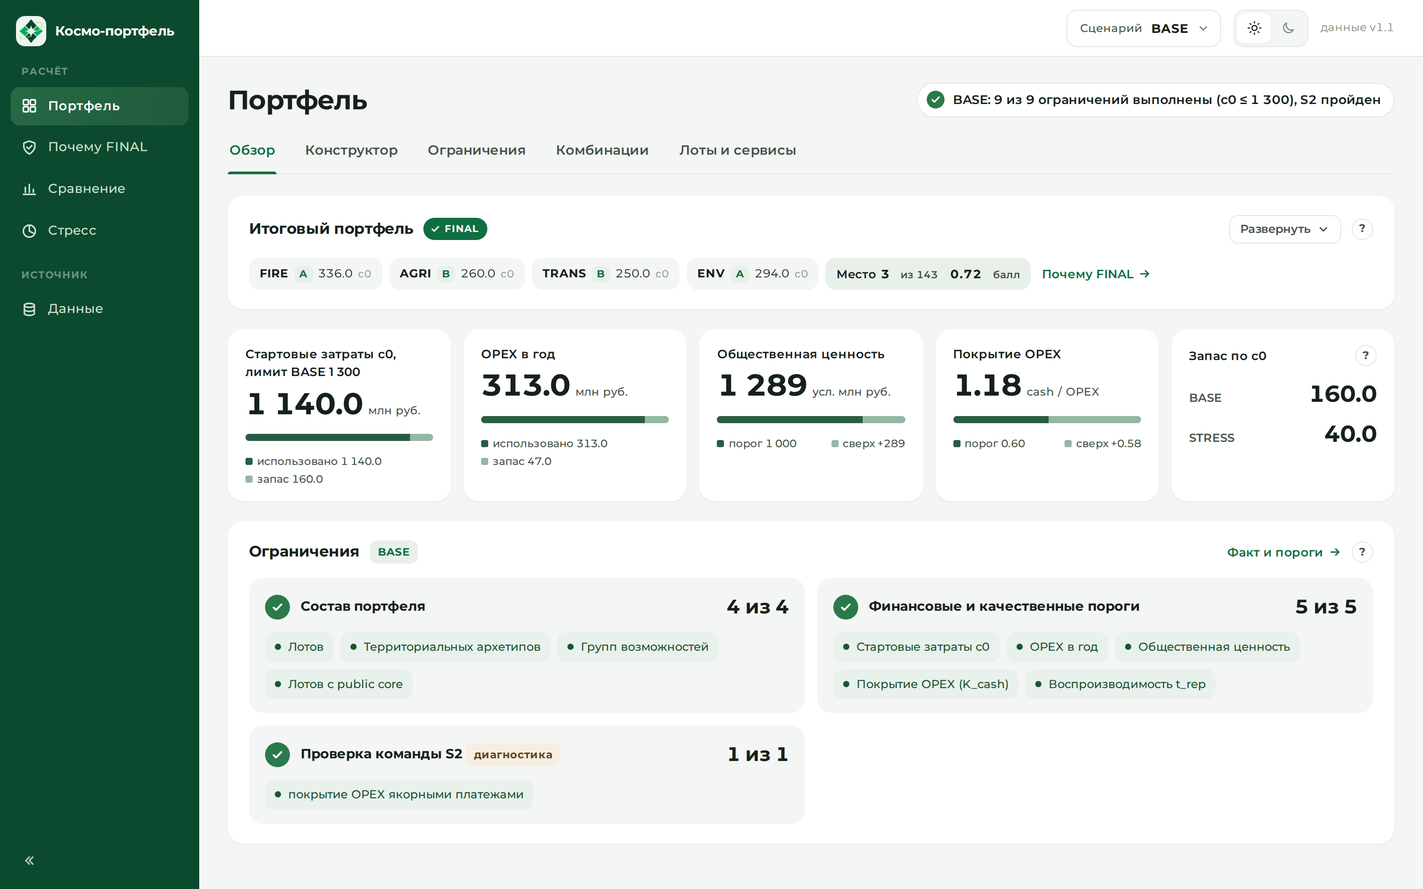
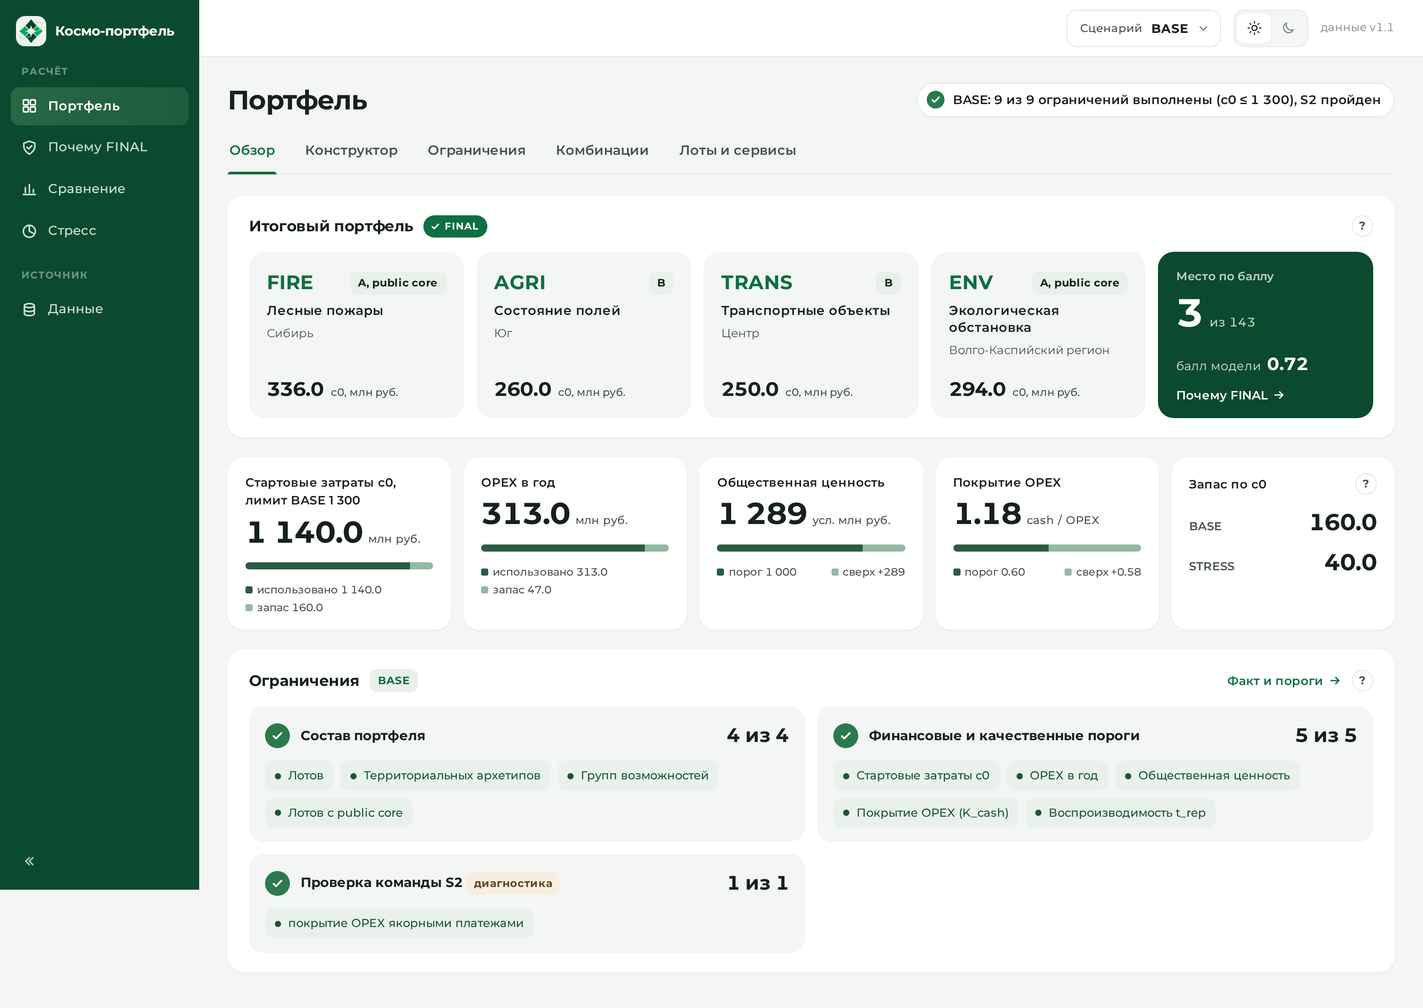
Fold each service card instead of the portfolio blocks
Свёрнуты были не те блоки. «Итоговый портфель» на обзоре и таблица «Лоты
портфеля» возвращены в прежний вид — снимки этих экранов побайтно совпадают
с версией до складывания.

Складывается то, что просили: каждая карточка в «Сервисах портфеля» по
отдельности. Свёрнутая показывает лот, режим, регион и пользователя, кнопка
«Подробнее» раскрывает проблему, описание, правила доступа, KPI, эффект,
плательщика, риск и поведение при сбое. Соседние карточки не трогаются:
у сетки align-items:start, поэтому раскрытая растёт одна, а не вытягивает
пустотой весь ряд. Состояние каждой карточки живёт между сессиями в одном
ключе, разворот анимирован, при prefers-reduced-motion анимации нет.

Снимок portfolio-open.png удалён, portfolio-lots-open.png теперь показывает
раскрытые карточки сервисов. Тесты: 390.

Claude-Session: https://claude.ai/code/session_01KH6fEFye5MQCjx5tVeXQtT

diff --git a/app/static/app.js b/app/static/app.js
@@ -77,7 +77,7 @@ const tag = (t, cls = '') => `<span class="tag${cls ? ' ' + cls : ''}">${esc(t)}
 const finBadge = () => `<span class="fin">${ICON.tick}FINAL</span>`;
 const isFinalId = (id) => id === state.data?.final;
 const foldOpen = (name) => !!state.fold[name];
-const foldT = (name, what) => `<span class="fold-t" role="button" tabindex="0" data-fold="${name}" aria-expanded="${foldOpen(name)}" aria-controls="fold-${name}" aria-label="${foldOpen(name) ? 'Свернуть' : 'Развернуть'}: ${esc(what)}">${foldOpen(name) ? 'Свернуть' : 'Развернуть'} ${ICON.chev}</span>`;
+const foldT = (name, what, open = 'Свернуть', closed = 'Развернуть') => `<span class="fold-t" role="button" tabindex="0" data-fold="${name}" data-open="${esc(open)}" data-closed="${esc(closed)}" aria-expanded="${foldOpen(name)}" aria-controls="fold-${name}" aria-label="${foldOpen(name) ? esc(open) : esc(closed)}: ${esc(what)}">${foldOpen(name) ? esc(open) : esc(closed)} ${ICON.chev}</span>`;
 const more = (tab, label, page = null) => `<a class="more" role="link" tabindex="0" data-tab="${tab}"${page ? ` data-page="${page}"` : ''}>${label} ${ICON.arrow}</a>`;
 
 // localStorage может быть недоступен (приватный режим, запрет cookies) — интерфейс работает и без памяти между сессиями
@@ -101,8 +101,8 @@ const state = {
   theme: document.documentElement.dataset.theme || 'light',
   dataset: null,
   gatesFilter: store.get('kp.gates') === '1',   // проверки команды S2 как фильтр ранжирования (только для исследования)
-  // складные блоки: карточки лотов на обзоре и таблица показателей; по умолчанию свёрнуты
-  fold: { hero: store.get('kp.fold.hero') === '1', lots: store.get('kp.fold.lots') === '1' },
+  // складные карточки сервисов: ключ на лот, по умолчанию все свёрнуты
+  fold: Object.fromEntries((store.get('kp.fold') || '').split(',').filter(Boolean).map((k) => [k, true])),
 };
 const curTab = (page = state.page) => state.tab[page] || TABS[page][0][0];
 function parseHash() {
@@ -250,13 +250,7 @@ ${tile('Покрытие OPEX', fmt(m.kcash, 2), 'cash / OPEX', Math.min(1, cons
         const all = gatesBad.length === 0;
         return `<div class="sum-it"><div class="sum-h"><span class="circ${all ? '' : ' bad'}">${all ? ICON.check : ICON.x}</span><span class="t">Проверка команды S2 <span class="tag warn">диагностика</span></span><span class="n">${gates.length - gatesBad.length} из ${gates.length}</span></div><div class="sum-l">${gates.map((g) => `<span class="${g.ok ? '' : 'bad'}"><i></i>${esc(gateName(g))}${g.ok ? '' : ', ' + esc(gateFailText(g))}</span>`).join('')}</div></div>`;
       };
-      // Пять крупных карточек занимали половину первого экрана: по умолчанию они свёрнуты
-      // до строки «лот · режим · c0» с местом по баллу, разворачиваются кнопкой.
-      const heroSum = `<div class="fold-sum">${s.per_lot.map((r) => `<span class="fl"><b>${esc(r.lot)}</b><i>${esc(r.mode)}</i>${fmt(r.c0)}<small>c0</small></span>`).join('')}
-<span class="fl tt">Место<b>${s.rank ?? '—'}</b><em>из ${t.ranked}</em><b>${s.score.toFixed(2)}</b><em>балл</em></span>${more('decision', 'Почему FINAL', 'why')}</div>`;
-      return `<div class="card fold${foldOpen('hero') ? ' open' : ''}"><h2>${isFinal() ? 'Итоговый портфель' : 'Показанный портфель'} ${portfolioTag()}${foldT('hero', 'карточки лотов')}${help(helpHero)}</h2>
-${heroSum}
-<div class="fold-b" id="fold-hero"><div class="fold-in"><div class="hero">${lotCards}${score}</div></div></div></div>
+      return `<div class="card"><h2>${isFinal() ? 'Итоговый портфель' : 'Показанный портфель'} ${portfolioTag()}${help(helpHero)}</h2><div class="hero">${lotCards}${score}</div></div>
 ${tiles}
 <div class="card"><h2>Ограничения ${tag(sc)}${more('checks', 'Факт и пороги')}${help(helpChecks)}</h2><div class="sum">${grp('Состав портфеля', COMPOSITION)}${grp('Финансовые и качественные пороги', THRESHOLDS)}${grpGates()}</div></div>`;
     },
@@ -341,14 +335,19 @@ ${bad.length ? `<ul class="res-f">${bad.map((r) => `<li>${esc(failText(r))}</li>
       const modesTxt = Object.entries(d.modes).map(([k, v]) => `<b>Режим ${k}:</b> k_c0 ${v.k_c0}, k_opex ${v.k_opex}, ценность ×${v.k_vpub}, якорные ×${v.k_anchor}, коммерческие ×${v.k_commercial}${v.public_core ? ', public core' : ''}`).join('. ');
       const helpLots = `c0, OPEX и cash — млн руб.; ценность — усл. млн руб./год; готовность, устойчивость и тираж — индексы 1–5 из данных кейса. Значения после применения режима: c0 и OPEX умножены на k_c0 и k_opex, ценность — на k_vpub, поступления = якорные × k_anchor + коммерческие × k_commercial. ${modesTxt}. t_rep — показатель воспроизводимости лота (коэффициент масштабируемости решения). В строке «Портфель» — суммы; для t_rep и индексов — средние.`;
       // карточки сервисов: название для интерфейса и тексты из app/config/lots_ui.csv (файл участника записки)
+      // Карточка сервиса складывается отдельно от соседей: свёрнутая показывает лот,
+      // режим, регион и пользователя, остальное открывается кнопкой «Подробнее».
       const svcCard = (r) => {
-        const L = d.lots[r.lot], c = L.card;
+        const L = d.lots[r.lot], c = L.card, key = `sv-${r.lot}`;
         const head = `<div class="sv-h"><div class="name"><span class="code">${esc(r.lot)}</span>, ${esc(L.name)}</div><span class="mode">${esc(r.mode)}${r.public_core ? ', public core' : ''}</span></div>`;
         if (!c) return `<div class="sv">${head}<div class="sv-r">${esc(L.region)}</div><p class="muted">Карточка сервиса не подготовлена</p></div>`;
         const sameMode = !c.mode || c.mode === r.mode;
         const row = (k, v) => (v ? `<dt>${k}</dt><dd>${esc(v)}</dd>` : '');
         const access = sameMode ? row('Базовый доступ', c.access_base) + row('Дополнительно', c.access_extra) : `<dt>Доступ</dt><dd class="muted">описан для режима ${esc(c.mode)}, в комбинации — ${r.mode}</dd>`;
-        return `<div class="sv">${head}<div class="sv-r">${esc(L.region)}${c.user ? ', ' + esc(c.user) : ''}</div>${c.problem ? `<div class="sv-p"><b>Проблема:</b> ${esc(c.problem)}</div>` : ''}<p>${esc(c.description)}</p><dl>${access}${row('KPI', c.kpi)}${row('Эффект', c.effect)}${c.payer ? `<dt>Плательщик</dt><dd>${esc(c.payer)} <span class="hyp">предположение</span></dd>` : ''}${row('Ключевой риск', c.risk)}${row('При сбое', c.on_failure)}</dl></div>`;
+        const body = `${c.problem ? `<div class="sv-p"><b>Проблема:</b> ${esc(c.problem)}</div>` : ''}<p>${esc(c.description)}</p><dl>${access}${row('KPI', c.kpi)}${row('Эффект', c.effect)}${c.payer ? `<dt>Плательщик</dt><dd>${esc(c.payer)} <span class="hyp">предположение</span></dd>` : ''}${row('Ключевой риск', c.risk)}${row('При сбое', c.on_failure)}</dl>`;
+        return `<div class="sv fold${foldOpen(key) ? ' open' : ''}">${head}<div class="sv-r">${esc(L.region)}${c.user ? ', ' + esc(c.user) : ''}</div>
+<div class="fold-b" id="fold-${key}"><div class="fold-in"><div class="sv-body">${body}</div></div></div>
+${foldT(key, `карточка сервиса ${r.lot}`, 'Свернуть', 'Подробнее')}</div>`;
       };
       const helpSvc = `Что получает пользователь каждого лота: проблема, короткое описание, основной пользователь, базовый и дополнительный доступ, главный KPI, общественный эффект (что меняется в решениях пользователя; ущерб отдельно не заявляется), предполагаемый плательщик, ключевой риск, что показать при сбое. Плательщики — гипотезы команды, а не подтверждённые назначения. Правила доступа описаны для режима из карточки; если в комбинации режим другой, строки доступа не показываются.`;
       // тиражирование (П8): что переносится между регионами без изменений и что настраивается на месте —
@@ -361,16 +360,10 @@ ${bad.length ? `<ul class="res-f">${bad.map((r) => `<li>${esc(failText(r))}</li>
       };
       const rep = `<div class="card"><h2>Тиражирование: ядро и адаптация${help(helpRep)}</h2>
 <div class="tw"><table class="rep"><tr><th>Лот</th><th>Переносится без изменений</th><th>Настраивается в регионе</th></tr>${s.per_lot.map(repRow).join('')}</table></div></div>`;
-      // Таблица из десяти столбцов занимала весь экран: по умолчанию свёрнута до строки
-      // «лот · режим · c0» и итога, разворачивается по кнопке (класс на карточке, без перерисовки).
-      const sumLots = `<div class="fold-sum">${s.per_lot.map((r) => `<span class="fl"><b>${esc(r.lot)}</b><i>${esc(r.mode)}</i>${fmt(r.c0)}<small>c0</small></span>`).join('')}
-<span class="fl tt">Портфель${[['c0', fmt(m.c0)], ['OPEX', fmt(m.opex, 2)], ['ценность', fmt(m.vpub)], ['cash', fmt(m.cash, 2)]].map(([k, v]) => `<em>${k}</em><b>${v}</b>`).join('')}</span></div>`;
-      return `<div class="card fold${foldOpen('lots') ? ' open' : ''}"><h2>Лоты портфеля ${portfolioTag()}${foldT('lots', 'таблица всех показателей')}${help(helpLots)}</h2>
-${sumLots}
-<div class="fold-b" id="fold-lots"><div class="fold-in">
+      return `<div class="card"><h2>Лоты портфеля ${portfolioTag()}${help(helpLots)}</h2>
 <div class="tw wide"><table><tr><th>Лот</th><th>Режим</th><th class="num">c0</th><th class="num">OPEX</th><th class="num">Ценность</th><th class="num">Cash</th><th class="num">t_rep</th><th class="num">Готовность</th><th class="num">Устойчивость</th><th class="num">Тираж</th></tr>
 ${s.per_lot.map(lotRow).join('')}
-<tr class="total"><td>Портфель</td><td></td><td class="num">${fmt(m.c0)}</td><td class="num">${fmt(m.opex, 2)}</td><td class="num">${fmt(m.vpub)}</td><td class="num">${fmt(m.cash, 2)}</td><td class="num">${fmt(m.t_rep, 3)}</td><td class="num">${fmt(m.readiness, 2)}</td><td class="num">${fmt(m.resilience, 2)}</td><td class="num">${fmt(m.scale, 2)}</td></tr></table></div></div></div></div>
+<tr class="total"><td>Портфель</td><td></td><td class="num">${fmt(m.c0)}</td><td class="num">${fmt(m.opex, 2)}</td><td class="num">${fmt(m.vpub)}</td><td class="num">${fmt(m.cash, 2)}</td><td class="num">${fmt(m.t_rep, 3)}</td><td class="num">${fmt(m.readiness, 2)}</td><td class="num">${fmt(m.resilience, 2)}</td><td class="num">${fmt(m.scale, 2)}</td></tr></table></div></div>
 <div class="card"><h2>Сервисы портфеля${help(helpSvc)}</h2><div class="svc">${s.per_lot.map(svcCard).join('')}</div></div>${rep}`;
     },
   };
@@ -862,9 +855,10 @@ document.addEventListener('click', async (e) => {
     const name = fold.dataset.fold, card = fold.closest('.fold'), open = !card.classList.contains('open');
     card.classList.toggle('open', open);
     fold.setAttribute('aria-expanded', String(open));
-    fold.setAttribute('aria-label', `${open ? 'Свернуть' : 'Развернуть'}: ${fold.getAttribute('aria-label').split(': ').slice(1).join(': ')}`);
-    fold.firstChild.textContent = open ? 'Свернуть ' : 'Развернуть ';
-    state.fold[name] = open; store.set(`kp.fold.${name}`, open ? '1' : '0');
+    fold.setAttribute('aria-label', `${open ? fold.dataset.open : fold.dataset.closed}: ${fold.getAttribute('aria-label').split(': ').slice(1).join(': ')}`);
+    fold.firstChild.textContent = `${open ? fold.dataset.open : fold.dataset.closed} `;
+    state.fold[name] = open;
+    store.set('kp.fold', Object.keys(state.fold).filter((k) => state.fold[k]).join(','));
     return;
   }
   if (e.target.closest('#collapse')) { state.collapsed = !state.collapsed; store.set('kp.collapsed', state.collapsed ? '1' : '0'); $('#shell').classList.toggle('collapsed', state.collapsed); return; }

diff --git a/app/static/styles.css b/app/static/styles.css
@@ -256,7 +256,8 @@ tr.hl .lot{background:var(--hl-chip)}
 .cell.ok{background:var(--good-soft);color:var(--good-ink)}.cell.thin{background:var(--warn-soft);color:var(--warn-ink)}.cell.bad{background:var(--crit-soft);color:var(--crit-ink)}
 
 /* ---- карточки сервисов (тексты из config/lots_ui.csv) ---- */
-.svc{display:grid;grid-template-columns:repeat(4,minmax(0,1fr));gap:14px}
+/* align-items:start — раскрытая карточка растёт одна, соседние не вытягиваются пустотой */
+.svc{display:grid;grid-template-columns:repeat(4,minmax(0,1fr));gap:14px;align-items:start}
 .sv{display:flex;flex-direction:column;gap:9px;padding:16px 18px 18px;background:var(--bg);border-radius:16px;min-width:0}
 .sv-h{display:flex;align-items:flex-start;justify-content:space-between;gap:8px}
 .sv-h .name{font-weight:600;min-width:0;line-height:1.35;font-size:14.5px}
@@ -365,29 +366,18 @@ table.bs b.neg{color:var(--crit)}
 .ws .lots{margin-top:4px}
 table.alts td .sub{max-width:520px}
 .alt-h{display:flex;align-items:center;gap:4px;flex-wrap:wrap}
-/* складная карточка: компактная строка вместо большой таблицы, разворот по кнопке */
-/* кнопка разворота: видимый элемент управления, а не ссылка — иначе её не находят глазами */
-.card.fold h2 .fold-t{margin-left:auto;display:inline-flex;align-items:center;gap:7px;height:32px;padding:0 12px;border:1px solid var(--rule);border-radius:10px;background:var(--surface);color:var(--ink-2);font-family:var(--f-ui);font-size:13px;font-weight:600;white-space:nowrap;cursor:pointer;user-select:none}
-.card.fold h2 .fold-t:hover{border-color:var(--brand);color:var(--brand);background:var(--brand-soft)}
-.card.fold h2 .fold-t+.help{margin-left:0}
-.card.fold h2 .fold-t svg{width:14px;height:14px;transition:transform .2s ease}
-.card.fold.open h2 .fold-t svg{transform:rotate(180deg)}
-.fold-sum{display:flex;flex-wrap:wrap;gap:8px;align-items:center}
-.card.fold.open .fold-sum{display:none}
-.fl{display:inline-flex;align-items:baseline;gap:6px;padding:8px 12px;border-radius:12px;background:var(--bg);font-size:13px;font-variant-numeric:tabular-nums}
-.fl b{font-family:var(--f-code);letter-spacing:var(--code-tracking);font-weight:700;font-size:13px;color:var(--ink)}
-.fl i{font-style:normal;font-weight:700;font-size:11.5px;padding:1px 6px;border-radius:6px;background:var(--brand-soft);color:var(--brand)}
-.fl small{font-size:11.5px;color:var(--muted)}
-.fl.tt{background:var(--brand-soft);font-weight:600;color:var(--ink)}
-.fl.tt em{font-style:normal;font-size:11.5px;color:var(--ink-2);margin-left:6px}
-.fl.tt em+b{margin-left:8px}
-.fold-sum .more{margin-left:4px}
-.fl.tt b{font-family:var(--f-num);font-size:13.5px}
+/* складная карточка сервиса: свёрнутая показывает лот, режим, регион и пользователя */
+.fold-t{display:inline-flex;align-items:center;justify-content:center;gap:7px;height:32px;padding:0 12px;border:1px solid var(--rule);border-radius:10px;background:var(--surface);color:var(--ink-2);font-family:var(--f-ui);font-size:13px;font-weight:600;white-space:nowrap;cursor:pointer;user-select:none}
+.fold-t:hover{border-color:var(--brand);color:var(--brand);background:var(--brand-soft)}
+.fold-t svg{width:14px;height:14px;transition:transform .2s ease}
+.fold.open>.fold-t svg{transform:rotate(180deg)}
+.sv>.fold-t{margin-top:auto;width:100%}
 /* разворот: grid-template-rows 0fr → 1fr анимируется без фиксированной высоты */
 .fold-b{display:grid;grid-template-rows:0fr;transition:grid-template-rows .3s cubic-bezier(.4,0,.2,1)}
-.card.fold.open .fold-b{grid-template-rows:1fr}
+.fold.open>.fold-b{grid-template-rows:1fr}
 .fold-in{overflow:hidden;min-height:0}
-@media (prefers-reduced-motion: reduce){.fold-b{transition:none}.card.fold h2 .fold-t svg{transition:none}}
+.sv-body{display:flex;flex-direction:column;gap:9px;padding-top:9px}
+@media (prefers-reduced-motion: reduce){.fold-b{transition:none}.fold-t svg{transition:none}}
 
 /* FINAL против альтернативы: по паре полос на показатель, шкала своя в каждой строке */
 .cmpb{display:flex;flex-direction:column;gap:12px}

diff --git a/app/README.md b/app/README.md
@@ -104,7 +104,9 @@ config/team.json         карточка решения: команда, мет
   серую строку «не проходит S2». «Лоты и сервисы» — таблица лотов с итогом
   и карточки сервисов: проблема, пользователь, доступ, KPI, общественный
   эффект, предполагаемый плательщик (всегда с пометкой предположения),
-  ключевой риск, что показать при сбое; ниже блок «Тиражирование: ядро и адаптация» — по
+  ключевой риск, что показать при сбое. Карточка свёрнута до лота, режима,
+  региона и пользователя; кнопка «Подробнее» раскрывает её отдельно от
+  соседних. Ниже блок «Тиражирование: ядро и адаптация» — по
   каждому лоту, что переносится в следующий регион без изменений и что
   настраивается на месте (П8).
 - **Почему FINAL.** «Решение» — формулировка команды из
